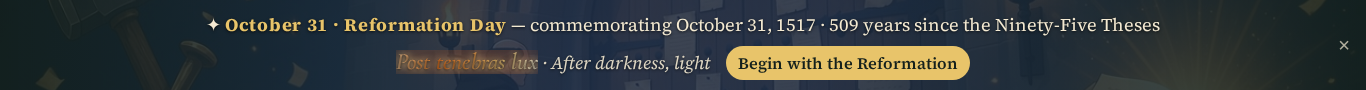
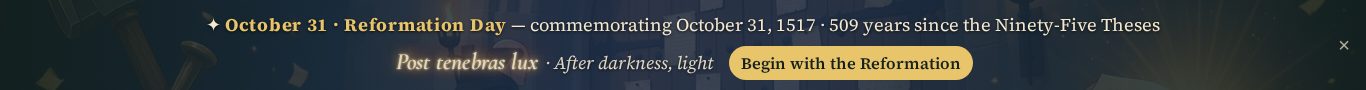
Reformation Day v10c: readable ember ink for inline post tenebras lux

diff --git a/reformation-day.css b/reformation-day.css
@@ -68,7 +68,8 @@ html.refday #top::after{content:"";position:absolute;inset:0;pointer-events:none
 html.refday .rd-fire{font-family:"Cormorant Garamond","EB Garamond",Georgia,serif;font-style:italic;font-weight:700;letter-spacing:.01em;white-space:nowrap;display:inline-block;-webkit-font-smoothing:antialiased;-moz-osx-font-smoothing:grayscale;text-rendering:optimizeLegibility;color:#ffe2a8;background:none;text-shadow:0 0 2px #fff4d6,0 0 8px rgba(255,190,90,.9),0 -2px 16px rgba(255,120,20,.7),0 -5px 30px rgba(210,60,0,.5);clip-path:inset(-40% 100% -40% -10%);animation:rd-write 2.4s cubic-bezier(.4,0,.2,1) .3s forwards,rd-breathe 3.4s ease-in-out 2.7s infinite}
 html.refday .rd-banner .rd-fire{font-size:1.3em;line-height:1.1;padding:0 .1em}
 html.refday #reformation .head h2.rd-fire{font-size:clamp(2.6rem,6vw,4.6rem);line-height:1.15;padding:0 .1em}
-html.refday #reformation em.rd-fire{font-size:1.15em;color:#c2571a;text-shadow:0 0 6px rgba(255,170,70,.55)}
+html.refday #reformation em.rd-fire{font-size:1.15em;color:#b8460f;text-shadow:0 0 6px rgba(255,160,60,.45);animation:rd-write 2.4s cubic-bezier(.4,0,.2,1) .3s forwards,rd-ember-ink 3.4s ease-in-out 2.7s infinite}
+@keyframes rd-ember-ink{0%,100%{color:#b8460f;text-shadow:0 0 6px rgba(255,160,60,.45)}50%{color:#d4590f;text-shadow:0 0 10px rgba(255,170,60,.7)}}
 @keyframes rd-write{to{clip-path:inset(-40% -10% -40% -10%)}}
 @keyframes rd-breathe{0%,100%{color:#ffe2a8;text-shadow:0 0 2px #fff4d6,0 0 8px rgba(255,190,90,.9),0 -2px 16px rgba(255,120,20,.7),0 -5px 30px rgba(210,60,0,.5)}50%{color:#fff0c8;text-shadow:0 0 3px #fff8e4,0 0 12px rgba(255,205,110,1),0 -3px 22px rgba(255,135,30,.85),0 -7px 40px rgba(225,70,0,.6)}}
 @media (prefers-reduced-motion:reduce){html.refday .rd-spook,html.refday .rd-spook .fog{animation:none}html.refday .rd-spook .ember{display:none}html.refday .rd-fire{animation:none;clip-path:none}}
